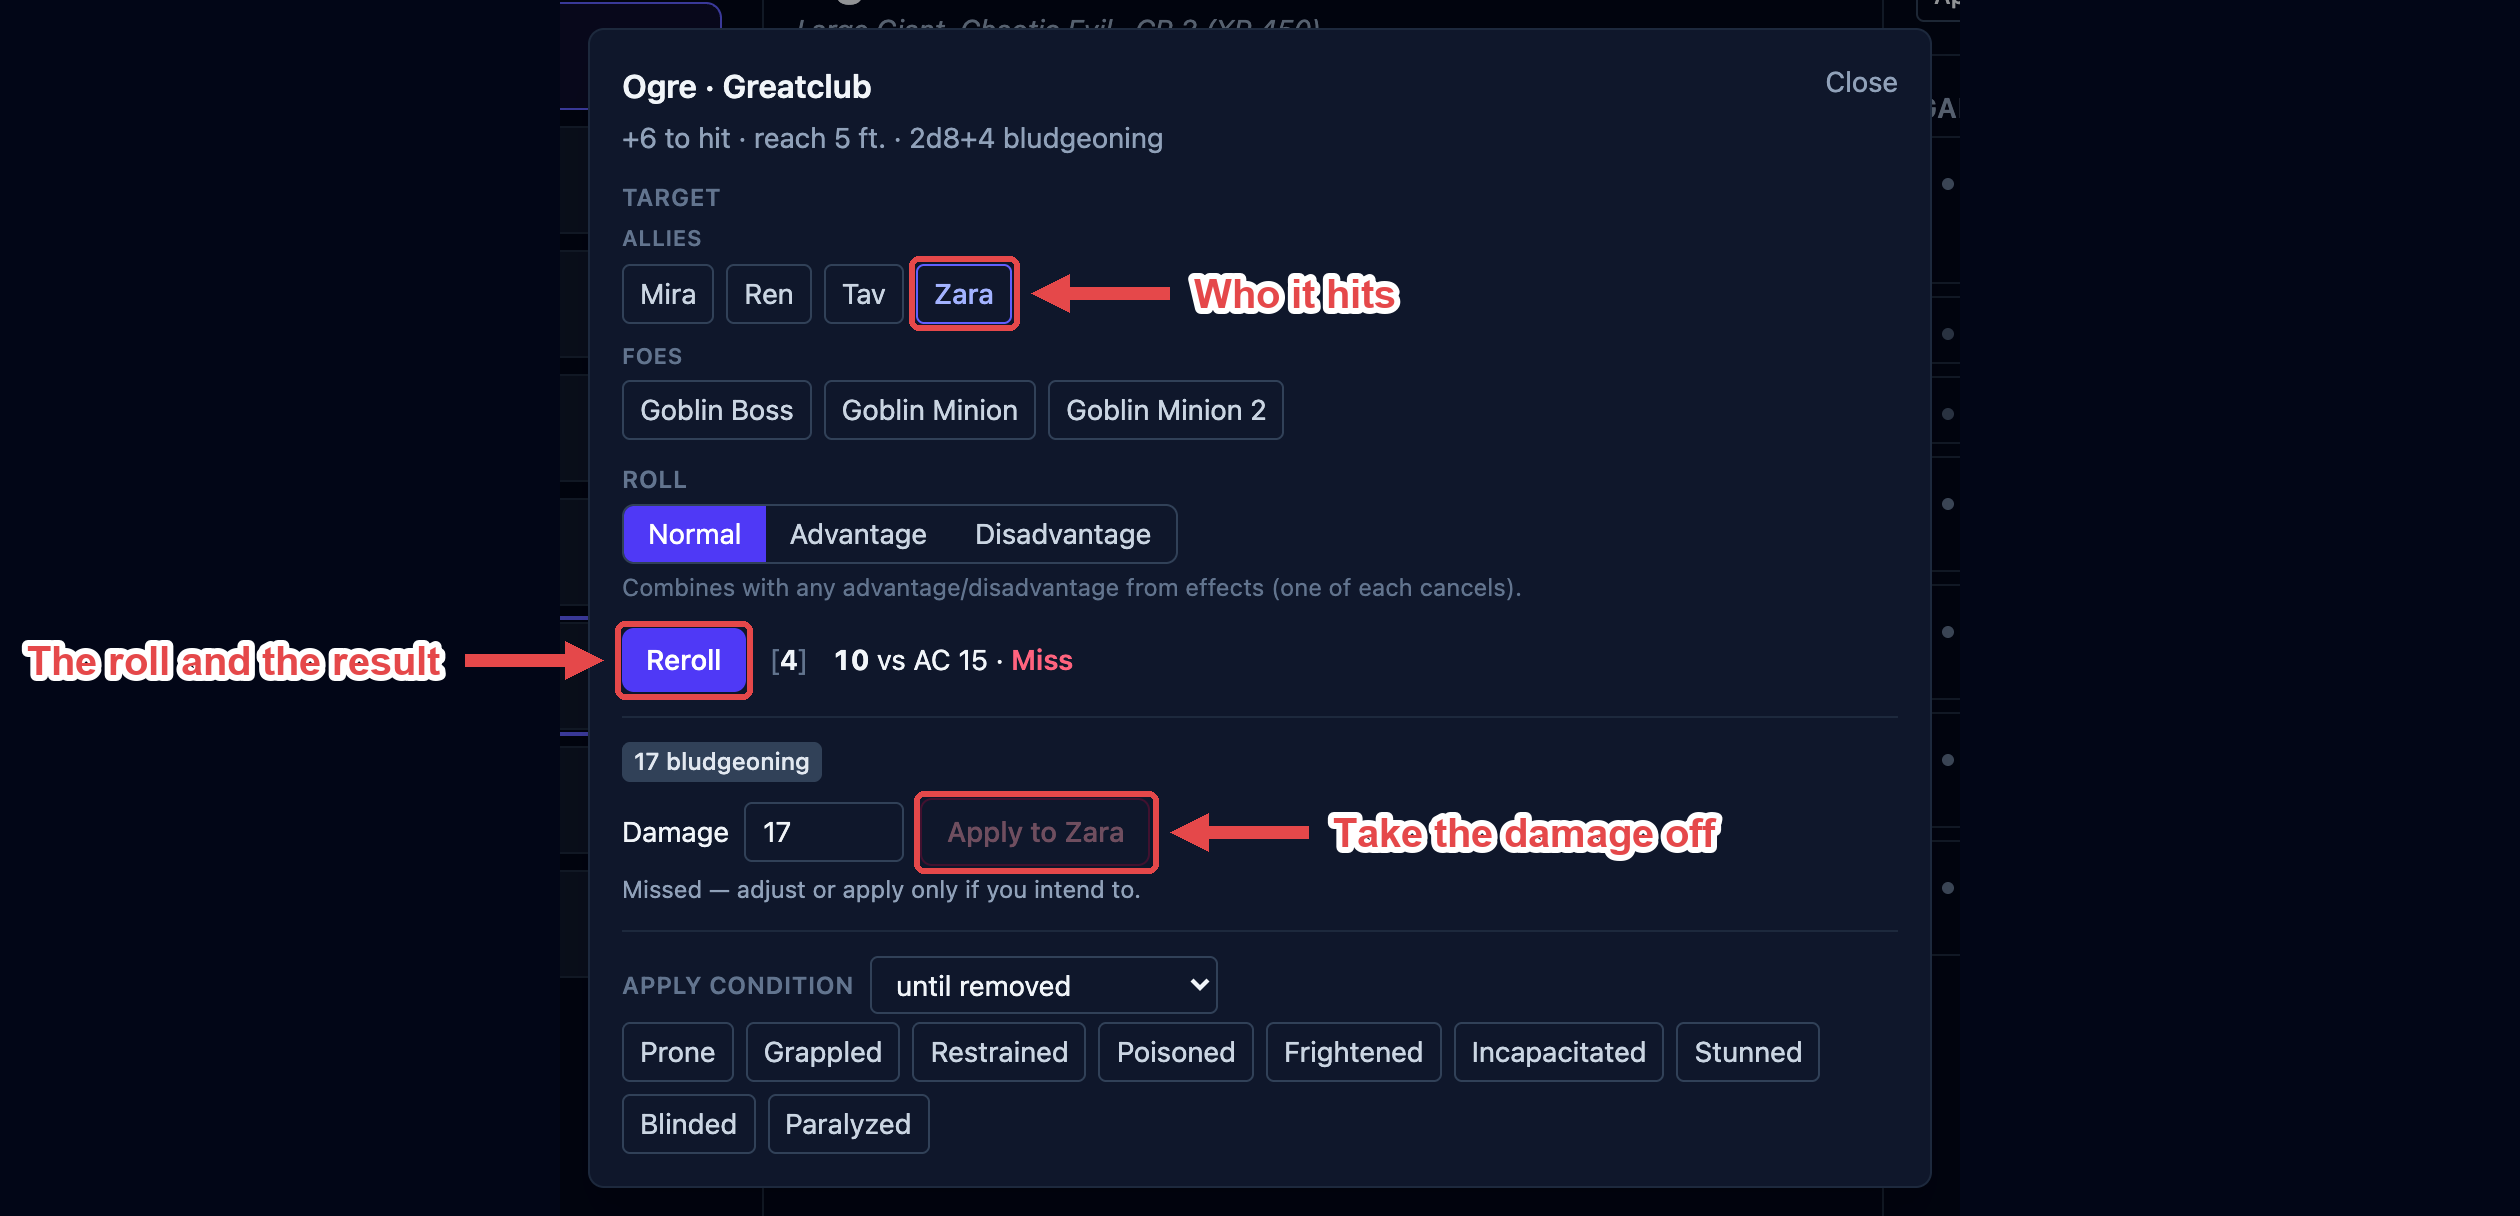
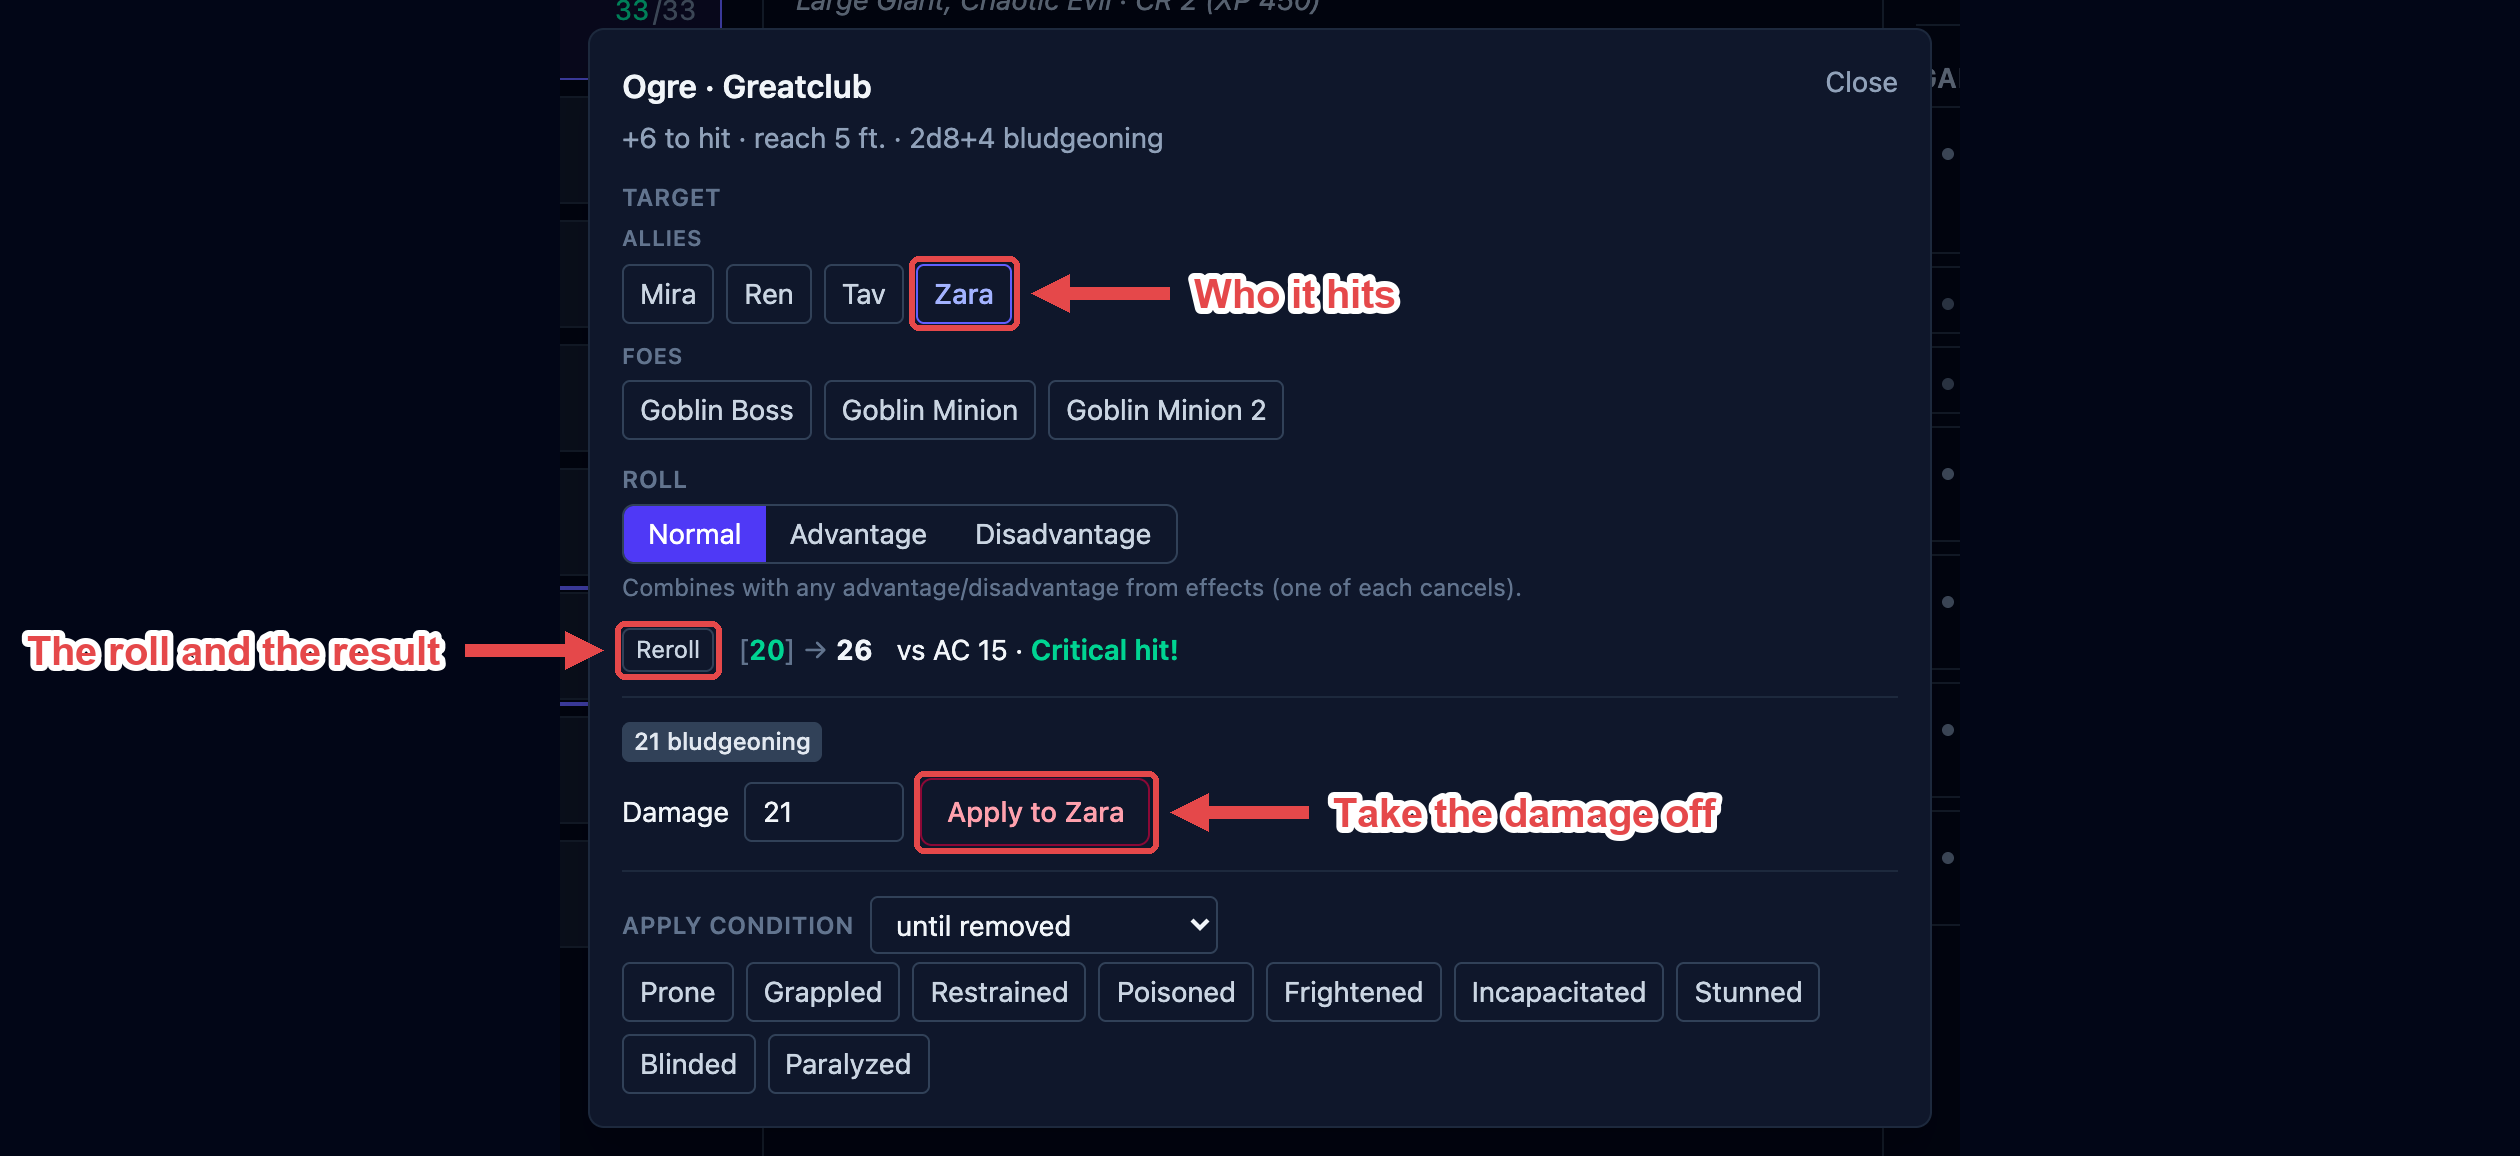
App: carry a roll to its total with an arrow
A roll read `[13] 24` — two numbers side by side with nothing saying the
second came from the first. It reads `[13] → 24` now, everywhere a d20
lands: the attack line, the save rows, and the cast card's rows. The total
is the bold one; a lone die stays muted, since the total is the number
being read. Under advantage the kept die still stands out from the one it
dropped.

The reroll is one affordance again. The attack modal made it a primary
button while a save row made it a quiet chip, so the same action looked
like two. The rule now: the first roll is the primary button — Roll
attack, Roll saves, Roll damage — and every reroll after it is a chip.

The attack screenshot recipe scopes its target click to the dialog, the
same flake the group-save recipe had: a combatant's tracker row and its
target chip are both buttons with that name.

diff --git a/src/components/ActionResolver.tsx b/src/components/ActionResolver.tsx
@@ -164,34 +164,46 @@ const DAMAGE_TONE: Partial<Record<DamageType, string>> = {
 }
 
 /**
- * The d20s behind a roll, in brackets like the game log writes them. With advantage
- * or disadvantage both dice show: the one that counted stands out, the dropped one
- * is dimmed beside it.
+ * What a d20 roll came to: the dice in brackets, an arrow, then the total the
+ * modifiers made of it — `[5, 9] → 11`. With advantage or disadvantage both dice
+ * show, the one that counted standing out from the one it dropped. A lone die stays
+ * muted, since the total is the number being read.
  */
 export function NaturalRoll({
   group,
+  total,
   tone = 'normal',
 }: {
   group: DieGroup
+  /** The roll's total. Omitted where the caller shows it itself. */
+  total?: number
   tone?: 'normal' | 'crit' | 'fumble'
 }) {
   const keptClass =
     tone === 'crit'
-      ? 'text-emerald-600 dark:text-emerald-400'
+      ? 'font-semibold text-emerald-600 dark:text-emerald-400'
       : tone === 'fumble'
-        ? 'text-rose-600 dark:text-rose-400'
-        : 'text-slate-900 dark:text-slate-100'
+        ? 'font-semibold text-rose-600 dark:text-rose-400'
+        : group.results.length > 1
+          ? 'font-semibold text-slate-900 dark:text-slate-100'
+          : undefined
   const kept = keptFlags(group)
   return (
     <span className="text-sm tabular-nums text-slate-400 dark:text-slate-500">
       [
       {group.results.map((value, i) => (
-        <span key={i} className={kept[i] ? `font-semibold ${keptClass}` : undefined}>
+        <span key={i} className={kept[i] ? keptClass : undefined}>
           {i > 0 ? ', ' : ''}
           {value}
         </span>
       ))}
       ]
+      {total != null && (
+        <>
+          {' → '}
+          <span className="font-bold text-slate-900 dark:text-slate-100">{total}</span>
+        </>
+      )}
     </span>
   )
 }
@@ -529,19 +541,25 @@ function AttackResolver({
       </fieldset>
 
       <div className="flex items-center gap-3">
-        <Button variant="primary" onClick={doRoll} disabled={!target}>
-          {attack ? 'Reroll' : 'Roll attack'}
-        </Button>
+        {attack ? (
+          <Chip size="sm" onClick={doRoll}>
+            Reroll
+          </Chip>
+        ) : (
+          <Button variant="primary" onClick={doRoll} disabled={!target}>
+            Roll attack
+          </Button>
+        )}
         {attack?.d20 && (
           <NaturalRoll
             group={attack.d20}
+            total={attack.result.total}
             tone={attack.crit ? 'crit' : attack.result.fumble ? 'fumble' : 'normal'}
           />
         )}
         {attack && (
           <span className="text-sm">
-            <span className="font-bold tabular-nums">{attack.result.total}</span> vs AC{' '}
-            {acOf(attack.target)} ·{' '}
+            vs AC {acOf(attack.target)} ·{' '}
             <span
               className={
                 hit
@@ -999,12 +1017,7 @@ export function SaveResolver({
                 >
                   <span className="flex items-center gap-2">
                     <span className="font-medium">{nameOf(c)}</span>
-                    {row?.d20 && <NaturalRoll group={row.d20} />}
-                    {row?.total != null && (
-                      <span className="tabular-nums text-slate-500 dark:text-slate-400">
-                        {row.total}
-                      </span>
-                    )}
+                    {row?.d20 && <NaturalRoll group={row.d20} total={row.total} />}
                     {!noSave && (
                       <>
                         <Chip

diff --git a/src/components/SpellResolution.tsx b/src/components/SpellResolution.tsx
@@ -8,7 +8,7 @@ import type { EncounterAction } from '../state/encounter.ts'
 import { damageFormula, damageTypes, damageVariants } from '../combat/casting.ts'
 import { roll } from '../dice/roll.ts'
 import { GroupSaveForm } from './GroupSaveForm.tsx'
-import { Button, Select } from './ui.tsx'
+import { Button, Chip, Select } from './ui.tsx'
 import type { OnRoll } from './GameLog.tsx'
 
 /** "Cantrip" for level 0, otherwise "Level N". */
@@ -76,9 +76,15 @@ export function SpellResolution({
               ))}
             </Select>
           )}
-          <Button variant="primary" onClick={rollDamage}>
-            {rolled ? 'Reroll damage' : 'Roll damage'}
-          </Button>
+          {rolled ? (
+            <Chip size="sm" onClick={rollDamage}>
+              Reroll damage
+            </Chip>
+          ) : (
+            <Button variant="primary" onClick={rollDamage}>
+              Roll damage
+            </Button>
+          )}
           {rolled && (
             <span className="text-sm">
               <span className="font-semibold tabular-nums">{rolled.total}</span>{' '}

diff --git a/tests/components/ActionResolver.test.tsx b/tests/components/ActionResolver.test.tsx
@@ -120,14 +120,16 @@ describe('ActionResolver — attacks', () => {
     fireEvent.click(screen.getByText('Roll attack'))
 
     // An Unconscious target grants advantage, so the pair is rolled and both show:
-    // the die that counted stands out, the dropped one is dimmed beside it.
+    // the die that counted stands out, the dropped one is dimmed beside it, and the
+    // arrow carries them to the total.
     const group = [...container.querySelectorAll('span')].find((el) =>
-      /^\[\d+, \d+\]$/.test(el.textContent ?? ''),
+      /^\[\d+, \d+\] → \d+$/.test(el.textContent ?? ''),
     )
     expect(group).toBeTruthy()
     const dice = [...group!.querySelectorAll('span')]
-    expect(dice).toHaveLength(2)
+    expect(dice).toHaveLength(3) // two dice and the total
     expect(dice.filter((el) => el.className.includes('font-semibold'))).toHaveLength(1)
+    expect(dice.filter((el) => el.className.includes('font-bold'))).toHaveLength(1)
   })
 })
 

diff --git a/src/components/GroupSaveForm.tsx b/src/components/GroupSaveForm.tsx
@@ -274,12 +274,7 @@ export function GroupSaveForm({
               </label>
               {resolved && selected.has(c.combatantId) && (
                 <span className="flex items-center gap-1">
-                  {row?.d20 && <NaturalRoll group={row.d20} />}
-                  {row?.total != null && (
-                    <span className="tabular-nums text-slate-500 dark:text-slate-400">
-                      {row.total}
-                    </span>
-                  )}
+                  {row?.d20 && <NaturalRoll group={row.d20} total={row.total} />}
                   <Chip
                     size="sm"
                     tone="good"

diff --git a/scripts/screenshots/shots.py b/scripts/screenshots/shots.py
@@ -250,8 +250,10 @@ def _open_attack(page):
     page.get_by_text("Ogre", exact=True).first.click()
     page.wait_for_timeout(300)
     page.get_by_text("Greatclub.", exact=False).first.click()
+    page.wait_for_selector("[role=dialog]")
     page.wait_for_timeout(400)
-    page.get_by_role("button", name="Zara", exact=True).click()
+    # Scoped to the dialog: Zara's tracker row is a button with that name too.
+    page.get_by_role("dialog").last.get_by_role("button", name="Zara", exact=True).click()
     page.wait_for_timeout(200)
 
 
